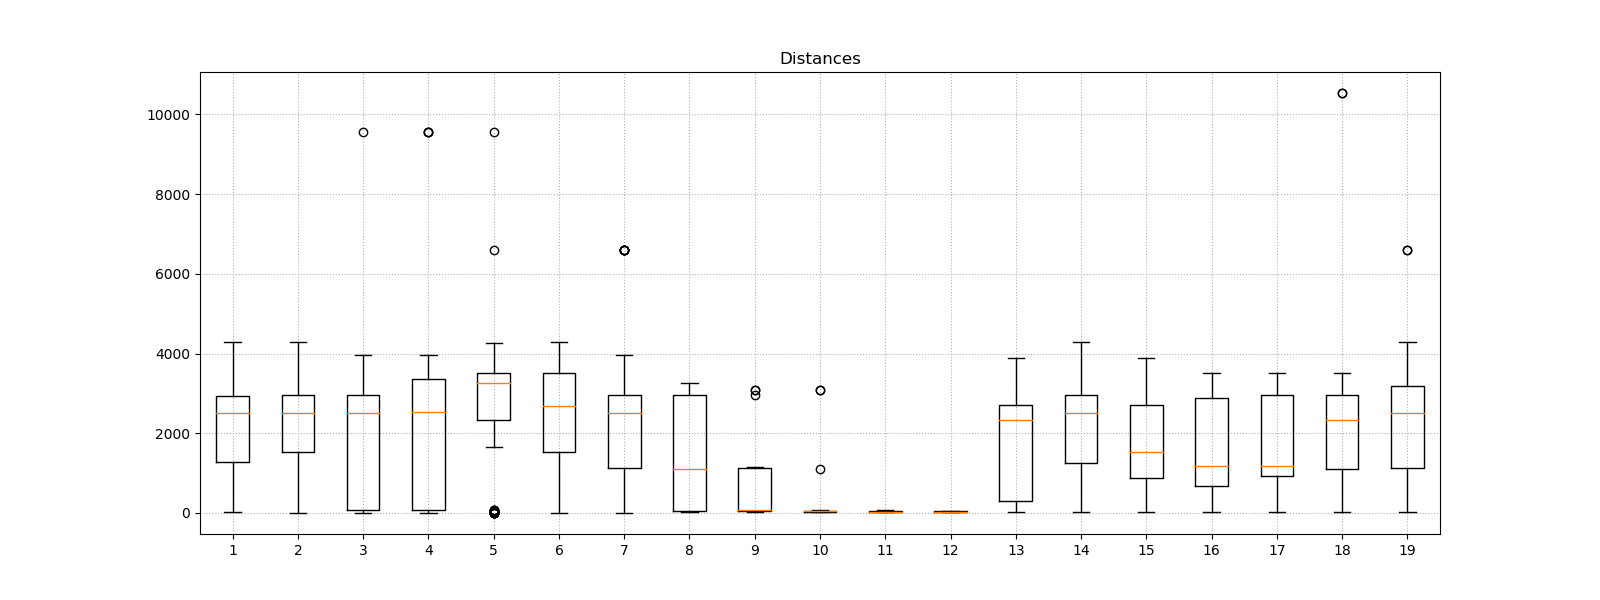
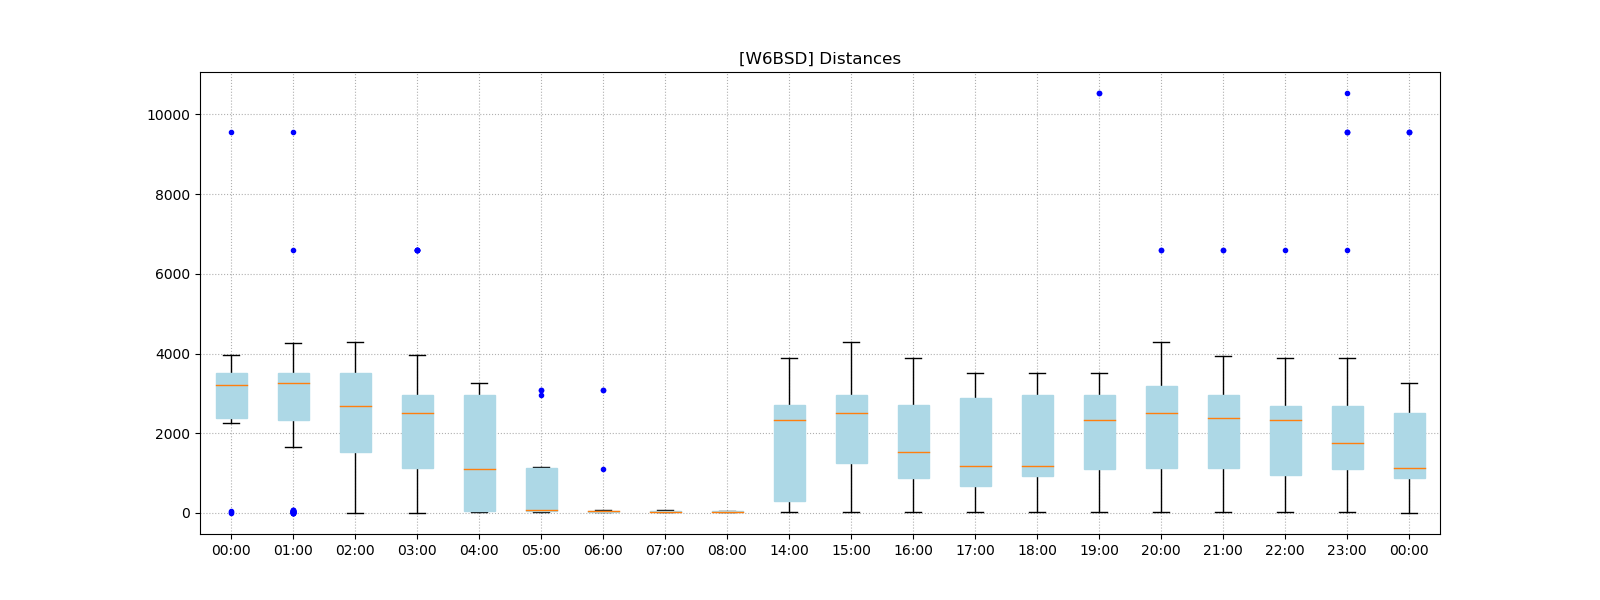
Added some usage information. Moved call sign and key into the config structure. Better error handling. Graph titles.

diff --git a/leaf.py b/leaf.py
@@ -27,8 +27,7 @@ logging.basicConfig(format='%(asctime)s %(levelname)s: %(message)s',
                     datefmt='%H:%M:%S',
                     level=logging.INFO)
 
-DXPLORER_CALL = os.getenv("CALLSIGN", "W6BSD")
-DXPLORER_KEY = os.getenv("KEY")
+
 DXPLORER_URL = "http://dxplorer.net/wspr/tx/spots.json"
 
 class Config(object):
@@ -36,7 +35,8 @@ class Config(object):
   granularity = 5
   fig_size = (16, 6)
   timelimit = '1d'
-
+  callsign = os.getenv("CALLSIGN", '').upper()
+  key = os.getenv("KEY")
 
 class WsprData(object):
   __slot__ = [
@@ -61,12 +61,15 @@ def readfile(filename):
 
 def download():
   params = dict(
-    callsign=DXPLORER_CALL,
-    key=DXPLORER_URL,
+    callsign=Config.callsign,
+    key=Config.key,
     timelimit=Config.timelimit,
   )
   resp = requests.get(url=DXPLORER_URL, params=params)
   data = resp.json()
+  if 'Error' in data:
+    logging.error(data['Error'])
+    sys.exit(os.EX_OSFILE)
   logging.info('Downloaded %d records', len(data))
   return [WsprData(**d) for d in data]
 
@@ -101,7 +104,7 @@ def azimuth(wspr_data):
   ax.set_theta_direction(-1)
 
   ax.scatter(az, el)
-  ax.set_title('Azimuth\nDistance', loc='left')
+  ax.set_title('[{}] Azimuth\nDistance'.format(Config.callsign), loc='left')
   plt.savefig(filename)
   plt.close()
 
@@ -128,9 +131,9 @@ def boxPlot(wspr_data):
     patch.set_color('lightblue')
 
   ax.grid(True)
-  ax.set_xticklabels(['{}'.format(h.strftime('%d %R')) for h in hours])
+  ax.set_xticklabels(['{}'.format(h.strftime('%R')) for h in hours])
 
-  plt.title('Distances')
+  plt.title('[{}] Distances'.format(Config.callsign))
   plt.grid(linestyle='dotted')
   plt.savefig(filename)
   plt.close()
@@ -156,7 +159,7 @@ def violinPlot(wspr_data):
 
   ax.violinplot(values, showmeans=False, showmedians=True)
 
-  plt.title('Distances')
+  plt.title('[{}] Distances'.format(Config.callsign))
   plt.grid(linestyle='dotted')
   plt.savefig(filename)
   plt.close()
@@ -175,6 +178,10 @@ def main():
     _logger = logging.getLogger()
     _logger.setLevel('DEBUG')
     del _logger
+
+  if not pargs.file and not any([Config.callsign, Config.key]):
+    logging.error('Call sign or key missing')
+    sys.exit(os.EX_NOPERM)
 
   if pargs.file:
     wspr_data = readfile(pargs.file)

diff --git a/README.md b/README.md
@@ -12,7 +12,20 @@ propagation works or to optimize your antenna setting.
 
 ## Usage
 
-    wspr[523]$ ./leaf.py --help
+To use this program you need to send wspr data to wsprnet.org. This is
+done with either a wsprlite (see down the page) or using the software
+WSJT-X. Then you need to get your key from dxplorer.net.
+
+Set the environment variables `CALLSIGN` and `KEY` with your call and
+key. The just run the program. The program without any argument will
+download from DXplorer your last 24 hours data and graph the
+results. You can also call `leaf.py` with the argument `--file`. The
+file needs to be a JSON file with the same format as the file provided
+by the site DXplorer.
+
+    wspr$ export CALLSIGN="W6BSD"
+	wspr$ export KEY="xxxxxSECRET_KEYxxxxx"
+	wspr$ ./leaf.py --help
     usage: leaf.py [-h] [-d] [-t TARGET_DIR] [-f FILE]
 
     WSPR Stats.
